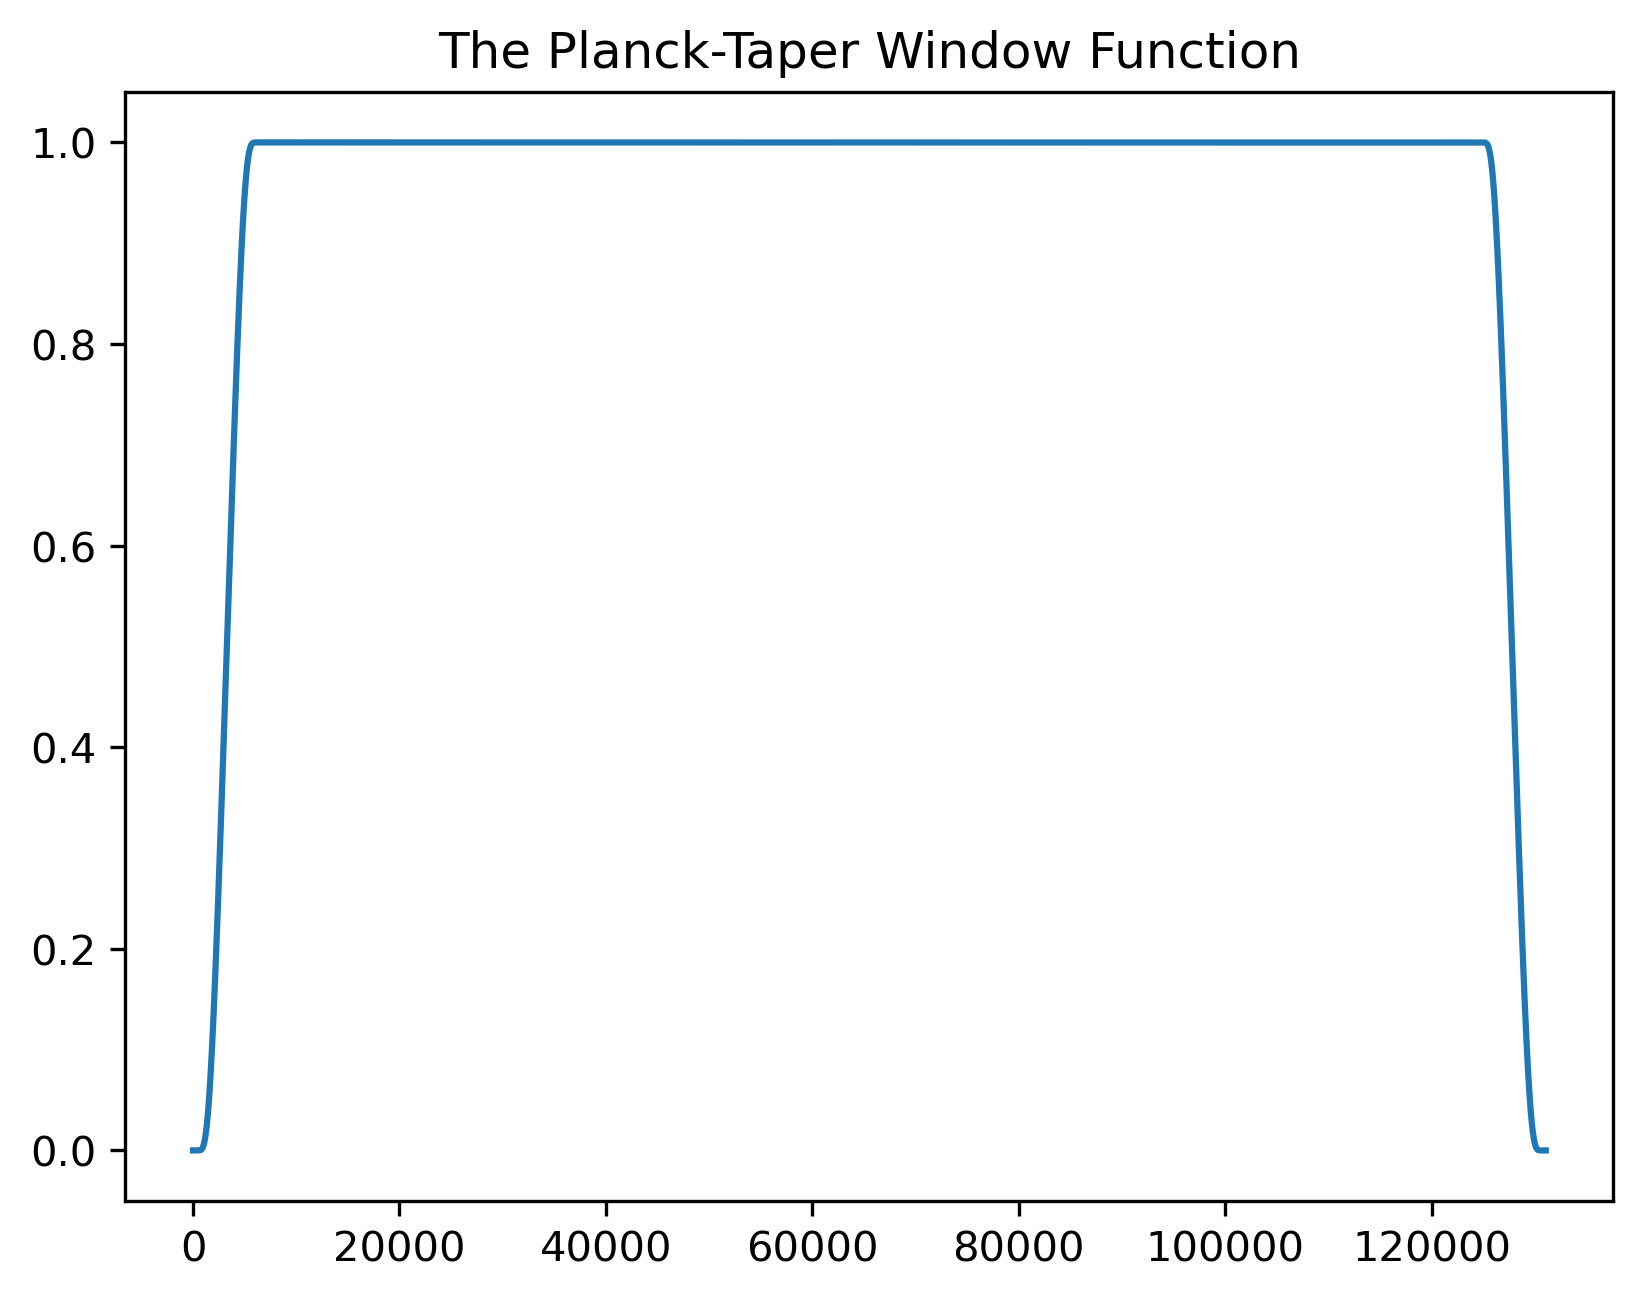
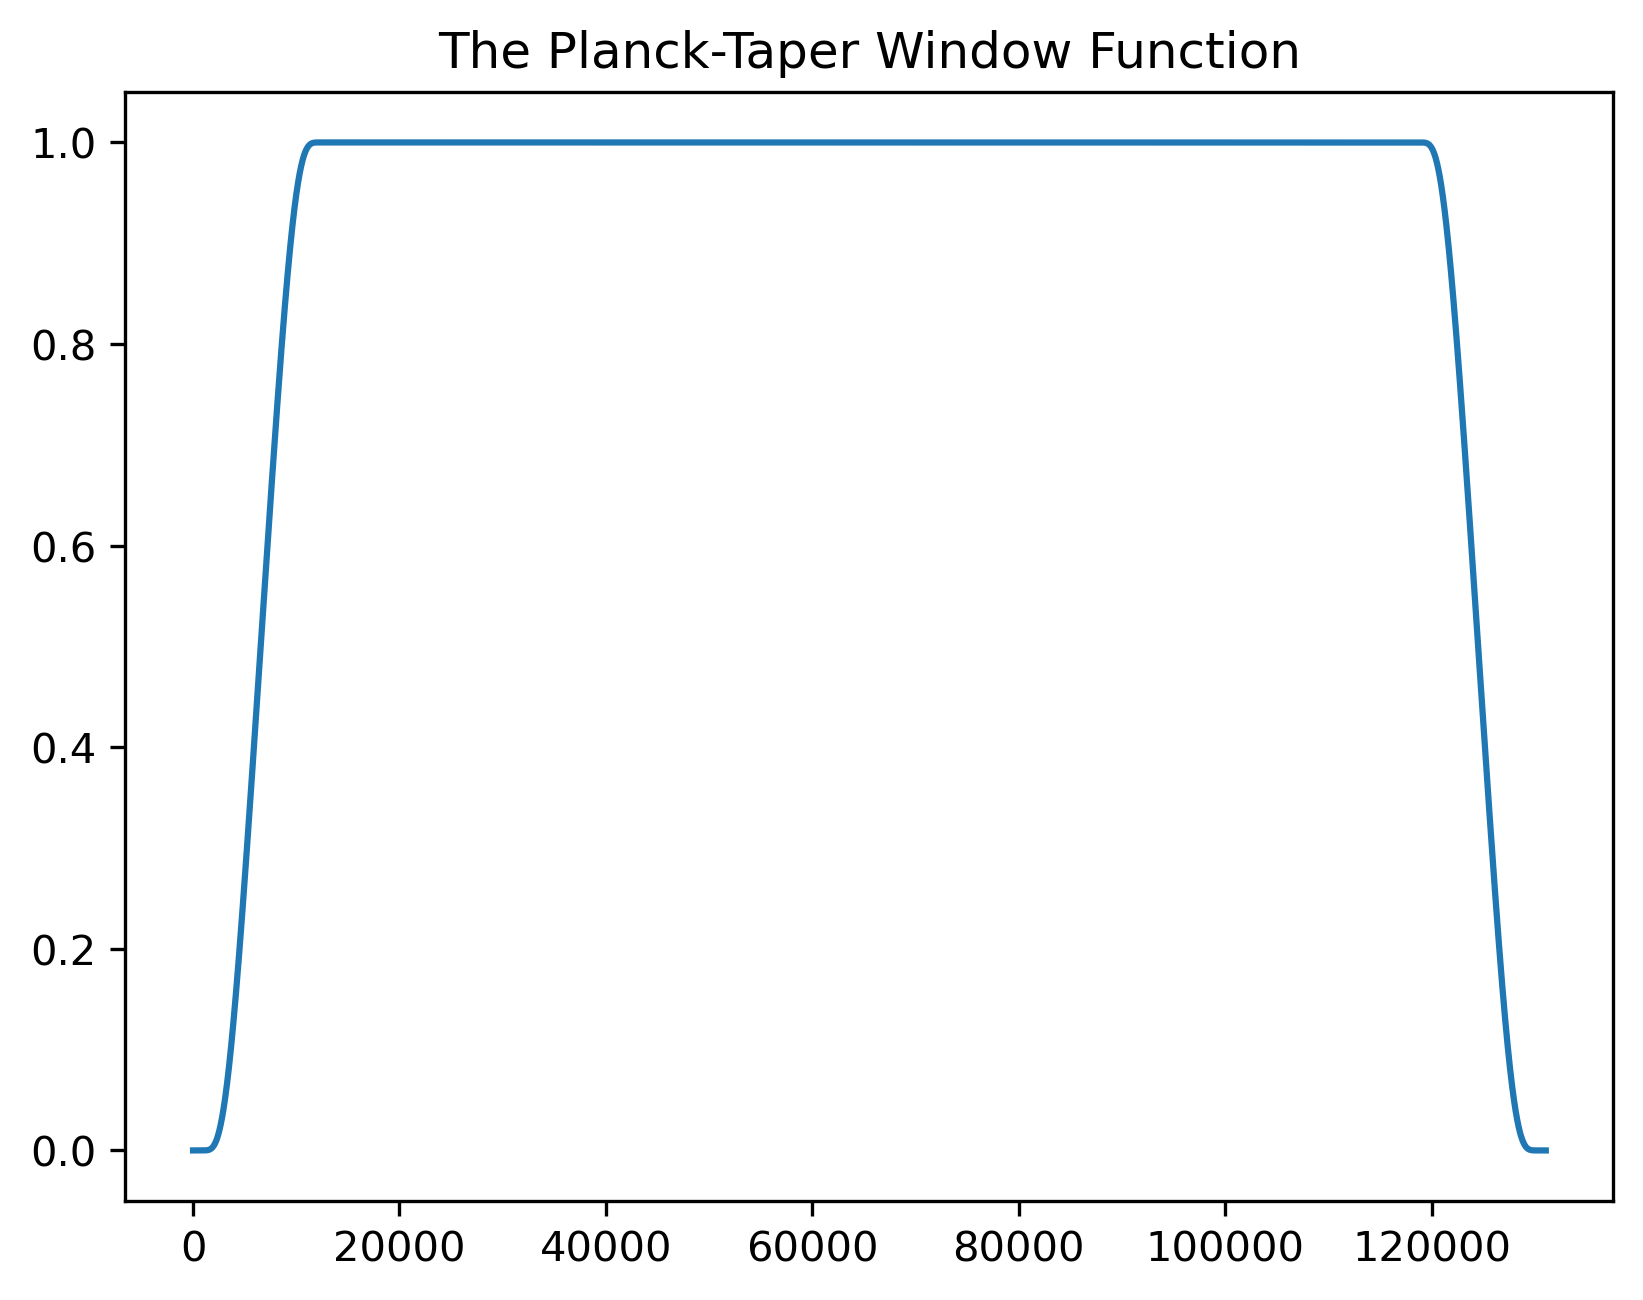
0324

Changed region(s): [[0.1242, 0.0923, 0.1862, 0.8923], [0.8691, 0.0923, 0.9623, 0.8923]]

diff --git a/problem_sets/ps6/ps6_1.py b/problem_sets/ps6/ps6_1.py
@@ -2,6 +2,7 @@ import numpy as np
 from matplotlib import pyplot as plt
 from scipy.ndimage import gaussian_filter1d
 from scipy.integrate import quad
+import scipy
 from scipy import signal
 import h5py
 import glob
@@ -24,7 +25,7 @@ def window(ep, N):
     return np.array(win)
 
 print(len(strain_H[0]))
-win = window(0.05, len(strain_H[0]))
+win = window(0.1, len(strain_H[0]))
 
 #win = signal.tukey(len(strain_H[0]),1/5)
 plt.plot(win)
@@ -49,10 +50,16 @@ Nft_2 = np.abs(strain_ftl)**2
 Nft = Nft_1.copy()
 Nftl = Nft_2.copy()
 
+Nft_H = [0]*4
+Nft_L = [0]*4
 # smooth out the noise model using a 1D Gaussian Filter
-Nft_H = gaussian_filter1d(Nft, 1)
-Nft_L = gaussian_filter1d(Nftl, 1)
+#Nft_H = gaussian_filter1d(Nft, 1)
+for i in range(4):
+    Nft_H[i] = scipy.signal.medfilt(Nft[i], 11)
+#Nft_L = gaussian_filter1d(Nftl, 1)
+    Nft_L[i] = scipy.signal.medfilt(Nftl[i], 11)
 
+#Nft_L = gaussian_filter1d(Nftl, 1)
 # for i in range(4):
 #     plt.loglog(Nft_1[i], label = f'unsmoothed {i + 1}')
 #     plt.loglog(Nft_H[i], label = f'Gaussian smoothed {i + 1}')
@@ -67,7 +74,23 @@ Nft_L = gaussian_filter1d(Nftl, 1)
 #     plt.title(f'Noise Model for Livingston Detector {i + 1}')
 #     plt.savefig(f'Noise_Model_L{i+1}.png',dpi = 300, bbox_inches = 'tight')
 #     plt.show()
+#whi
 
+# whitening the function
+def whiten(strain, interp_psd, dt):
+    Nt = len(strain)
+    freqs = np.fft.rfftfreq(Nt, dt)
+    freqs1 = np.linspace(0,2048.,Nt/2+1)
+
+    # whitening: transform to freq domain, divide by asd, then transform back,
+    # taking care to get normalization right.
+    hf = np.fft.rfft(strain)
+    norm = 1./np.sqrt(1./(dt*2))
+    white_hf = hf / np.sqrt(interp_psd(freqs)) * norm
+    white_ht = np.fft.irfft(white_hf, n=Nt)
+    return white_ht
+
+#sft_white = whiten(strain_ft, scipy.integrate.interp1d() )
 sft_white = strain_ft /np.sqrt(Nft_H)
 sft_white_l = strain_ftl/np.sqrt(Nft_L)
 th_white_ft = np.fft.rfft(th*win)/np.sqrt(Nft_H)
@@ -157,3 +180,5 @@ for i in range(4):
 
 
 # two LIGO detectors are 3000 km apart
+print(utc_H)
+print(utc_L)

diff --git a/problem_sets/ps6/simple_read_ligo.py b/problem_sets/ps6/simple_read_ligo.py
@@ -38,13 +38,19 @@ H=['H-H1_LOSC_4_V2-1126259446-32.hdf5','H-H1_LOSC_4_V2-1135136334-32.hdf5','H-H1
 L = ['L-L1_LOSC_4_V2-1126259446-32.hdf5','L-L1_LOSC_4_V2-1135136334-32.hdf5','L-L1_LOSC_4_V1-1167559920-32.hdf5','L-L1_LOSC_4_V2-1128678884-32.hdf5']
 strain_H = [0]*len(H)
 strain_L = [0]*len(H)
+utc_H = [0]*len(H)
+utc_L = [0]*len(H)
+dt_H = [0]*len(H)
+dt_L = [0]*len(H)
 for i in range(len(H)):
     print('reading file ',H[i],'and',L[i])
-    strain_H[i],dt_H,utc_H= read_file(H[i])
-    strain_L[i], dt_L, utc_L = read_file(L[i])
+    strain_H[i],dt_H,utc_H[i]= read_file(H[i])
+    strain_L[i], dt_L, utc_L[i] = read_file(L[i])
 
 #th,tl=read_template('GW150914_4_template.hdf5')
 GW=['GW150914_4_template.hdf5','GW151226_4_template.hdf5','GW170104_4_template.hdf5','LVT151012_4_template.hdf5']
+
+
 
 th = [0]*len(GW)
 tl = [0]*len(GW)
